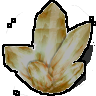
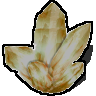
two robots. sun crystal rays.

diff --git a/src/dataMonsters.js b/src/dataMonsters.js
@@ -69,6 +69,7 @@ let BrainMindset = {
 	animal:   		'fleeWhenHurt,lep',
 	animalHunter:   'lep',
 	animalHerd:   	'fleeWhenAttacked,lep,pack',
+	robot:  		'lep',
 	undead: 		'lep',
 	undeadDumb: 	'',
 	hivemind: 		'alert,pack',
@@ -82,6 +83,7 @@ let BrainAbility = {
 	animal:   		'',
 	animalHunter:   '',
 	animalHerd: 	'',
+	robot: 			'open,pickup,shoot,throw',
 	undead: 		'open,pickup,shoot,throw',
 	undeadDumb: 	'open,pickup,shoot,throw',
 	hivemind: 		'gaze,open,pickup,shoot,talk,throw',
@@ -94,6 +96,7 @@ let BodyAbility = {
 	wingedBiped: 	'gaze,open,pickup',
 	noped:    		'gaze',
 	blob:    		'open,pickup',
+	humanoidBot: 	'gaze,open,pickup,shoot,throw',
 }
 
 let BodySlots = {
@@ -103,6 +106,7 @@ let BodySlots = {
 	wingedBiped: 	{ head: 1, neck: 1, feet: 1 },
 	noped:  		{ head: 1 },
 	blob:  			{ },
+	humanoidBot: 	{ hip: 1, shield: 1 },
 }
 
 
@@ -230,7 +234,6 @@ const MonsterTypeList = {
 		vuln: DemonVulnerability,
 	},
 	"ambligryp": {
-		// make it so this goes insubstantial from time to time.
 		core: [ SYM, 29, '4:20', 'evil', 'bash', 'animalHunter', 'multiped', 'mon/ambligryp.png', 'it' ],
 		attitude: Attitude.HUNT,
 		gripChance: 25,
@@ -240,6 +243,32 @@ const MonsterTypeList = {
 		senseSight: 3,
 		senseSmell: 400,
 		vuln: 'freeze,corrode',
+	},
+	"tinnamaton": {
+		core: [ SYM, 29, '4:12', 'evil', 'bash', 'robot', 'humanoidBot', 'mon/robot/tinnamaton.png', 'it' ],
+		scale: 0.55,
+		attitude: Attitude.AWAIT,
+		tooClose: 2,
+		immune: ConstructImmunity,
+		isMindless: true,
+		isConstruct: true,
+		isTinnamaton: true,
+		resist: ConstructResistance,
+		senseSight: 8,
+		vuln: ConstructVulnerability,
+	},
+	"brassamaton": {
+		core: [ SYM, 59, '6:8', 'evil', 'bash', 'robot', 'humanoidBot', 'mon/robot/brassamaton.png', 'it' ],
+		scale: 0.8,
+		attitude: Attitude.AWAIT,
+		tooClose: 2,
+		immune: ConstructImmunity,
+		isMindless: true,
+		isConstruct: true,
+		isBrassamaton: true,
+		resist: ConstructResistance,
+		senseSight: 5,
+		vuln: ConstructVulnerability,
 	},
 	"ghostScorpion": {
 		// make it so this goes insubstantial from time to time.

diff --git a/src/display.js b/src/display.js
@@ -297,18 +297,28 @@ class ImageRepo {
 			}
 		}
 
-		function scanIcon(typeList,member) {
-			for( let t in typeList ) {
-				if( typeList[t][member] ) {
-					add(typeList[t][member]);
+		function scan(typeId,type,member) {
+			if( type[member] ) {
+				if( typeId ) {
+					self.imgGet[typeId] = type.imgGet || DefaultImgGet;
 				}
+				add(type[member]);
 			}
 		}
-		function scan(typeList,member) {
+
+		function scanIcon(typeList,member) {
 			for( let t in typeList ) {
-				if( typeList[t][member] ) {
-					self.imgGet[t] = typeList[t].imgGet || DefaultImgGet;
-					add(typeList[t][member]);
+				scan(null,typeList[t],member);
+			}
+		}
+		function scanTypeList(typeList,member) {
+			for( let t in typeList ) {
+				let type = typeList[t];
+				scan( t, type, member );
+				if( type.effect ) {
+					scan( null, type.effect, 'icon' );
+					scan( null, type.effect, 'iconCloud' );
+					scan( null, type.effect, 'iconOver' );
 				}
 			}
 		}
@@ -336,9 +346,10 @@ class ImageRepo {
 		}
 
 		let self = this;
-		scan(StickerList,'img');
-		scan(AmmoList,'img');
-		scan(WeaponList,'img');
+		scanTypeList(StickerList,'img');
+		scanTypeList(AmmoList,'img');
+		scanTypeList(WeaponList,'img');
+		scanTypeList(StuffList,'img');
 		scanIcon(EffectTypeList,'icon');
 
 		function setup() {

diff --git a/src/dataItems.js b/src/dataItems.js
@@ -569,7 +569,17 @@ const StuffList = Fab.add( '', {
 	"darkEssence": 		{ rarity: 0.1, },
 	"facetedEye": 		{ rarity: 0.4, mayThrow: true, mayTargetPosition: true, isEdible: true, isJewelry: true },
 	"sunCrystal":   	{ rarity: 0.6, mayThrow: true, range: 7, light: 12, glow: 1, attackVerb: 'throw', img: "item/stuff/sunCrystal.png", mayTargetPosition: true,
-						effect: { name: 'radiance', op: 'damage', xDamage: 1.0, effectShape: EffectShape.BLAST5, effectFilter: eff=>eff.target.team==Team.EVIL, damageType: DamageType.SMITE, icon: 'gui/icons/eSmite.png' }
+							effect: {
+								name: 'radiance',
+								op: 'damage',
+								xDamage: 1.0,
+								effectShape: EffectShape.BLAST5,
+								effectFilter: eff=>eff.target.team==Team.EVIL,
+								damageType: DamageType.SMITE,
+								icon: 'gui/icons/eSmite.png',
+								iconOver: 'effect/lightRayCircle.png',
+								iconOverScale: 5.0,
+							}
 						},
 	"trollBlood": 		{ rarity: 0.6, isLiquid: true },
 	"spinneret": 		{ rarity: 0.4, },

diff --git a/src/deed.js b/src/deed.js
@@ -317,6 +317,10 @@ let effectApply = function(effect,target,source,item) {
 		);
 	}
 
+	if( effect.iconOver ) {
+		animOver( target, effect.iconOver, 0, effect.iconOverDuration || 0.4, effect.iconOverScale || 0.75 );
+	}
+
 	let effectShape = effect.effectShape || EffectShape.SINGLE;
 	if( effectShape == EffectShape.SINGLE ) {
 		return _effectApplyTo(effect,target,source,item);
@@ -345,7 +349,9 @@ let effectApply = function(effect,target,source,item) {
 						animCloud( x, y, area, source.id, effect.iconCloud || StickerList.ePoof.img );
 					}
 					else {
-						animFly( target.x, target.y, x, y, area, effect.icon || StickerList.eGeneric.img, effect.rangeDuration );
+						if( !effect.iconOver ) {
+							animFly( target.x, target.y, x, y, area, effect.icon || StickerList.eGeneric.img, effect.rangeDuration );
+						}
 					}
 					//animAt( x, y, area, effect.icon || StickerList.eGeneric.img, effect.rangeDuration );
 					let targetList = new Finder(area.entityList).at(x,y);

diff --git a/src/config.js b/src/config.js
@@ -66,7 +66,7 @@ ConfigList.ken = () => {
 //		rUNCOMMON: 		'antHive, trollBridge, trollPit, tinyRoom, shaft, collonade, fountain1, fountain4, patch, veil, floodWater, pitEncircle',
 //		rRARE: 			'goblinGathering, demonNest, portal, circle, ruin, swamp, etherHive, firePit, floodOre',
 //		rEPIC: 			'graveYard',
-		monsters: 		['isDailess'], //,'isOoze','isSnail'], //,'isOgre','isKobold','isTroll','isOoze','isDog'],
+		monsters: 		['isTinnamaton'], //,'isOoze','isSnail'], //,'isOgre','isKobold','isTroll','isOoze','isDog'],
 		prefer: 		null,
 		enemyDensity:  	0.02,
 		friendDensity: 	0.00001,
@@ -83,7 +83,7 @@ ConfigList.ken = () => {
 
 
 	return {
-		startingDepth: 19,
+		startingDepth: 12,
 		themeId: 'kenTheme'
 	}
 }

diff --git a/src/anim.js b/src/anim.js
@@ -472,14 +472,14 @@ function animFloatUp(target,icon,delay,duration=0.4) {
 	}
 }
 
-function animOver(target,icon,delay) {
+function animOver(target,icon,delay=0,duration=0.2,scale=0.75) {
 	return new Anim( {}, {
 		follow: 	target,
 		img: 		icon,
-		duration: 	0.2,
+		duration: 	duration,
 		delay: 		delay || 0,
 		onInit: 		a => { a.create(1); },
-		onSpriteMake: 	s => { s.sScaleSet(0.75); },
+		onSpriteMake: 	s => { s.sScaleSet(scale); },
 		onSpriteTick: 	s => { }
 	});
 }

diff --git a/monet/filters.js b/monet/filters.js
@@ -29,7 +29,8 @@ FilterSpec = {
 	"decor/floorDirt.png": 			{ normalize: false, brightness: -0.6, desaturate: 0.2 },
 	"decor/floorSlate.png": 		decorFloor,
 	"effect/arrowInFlight.png": 	{ shadow: false },
-	"effect/dartInFlight.png": 	{ shadow: false },
+	"effect/dartInFlight.png": 		{ shadow: false },
+	"effect/lightRayCircle.png": 	{ normalize: false, shadow: false, outline: false },
 }
 
 DirSpec = {
